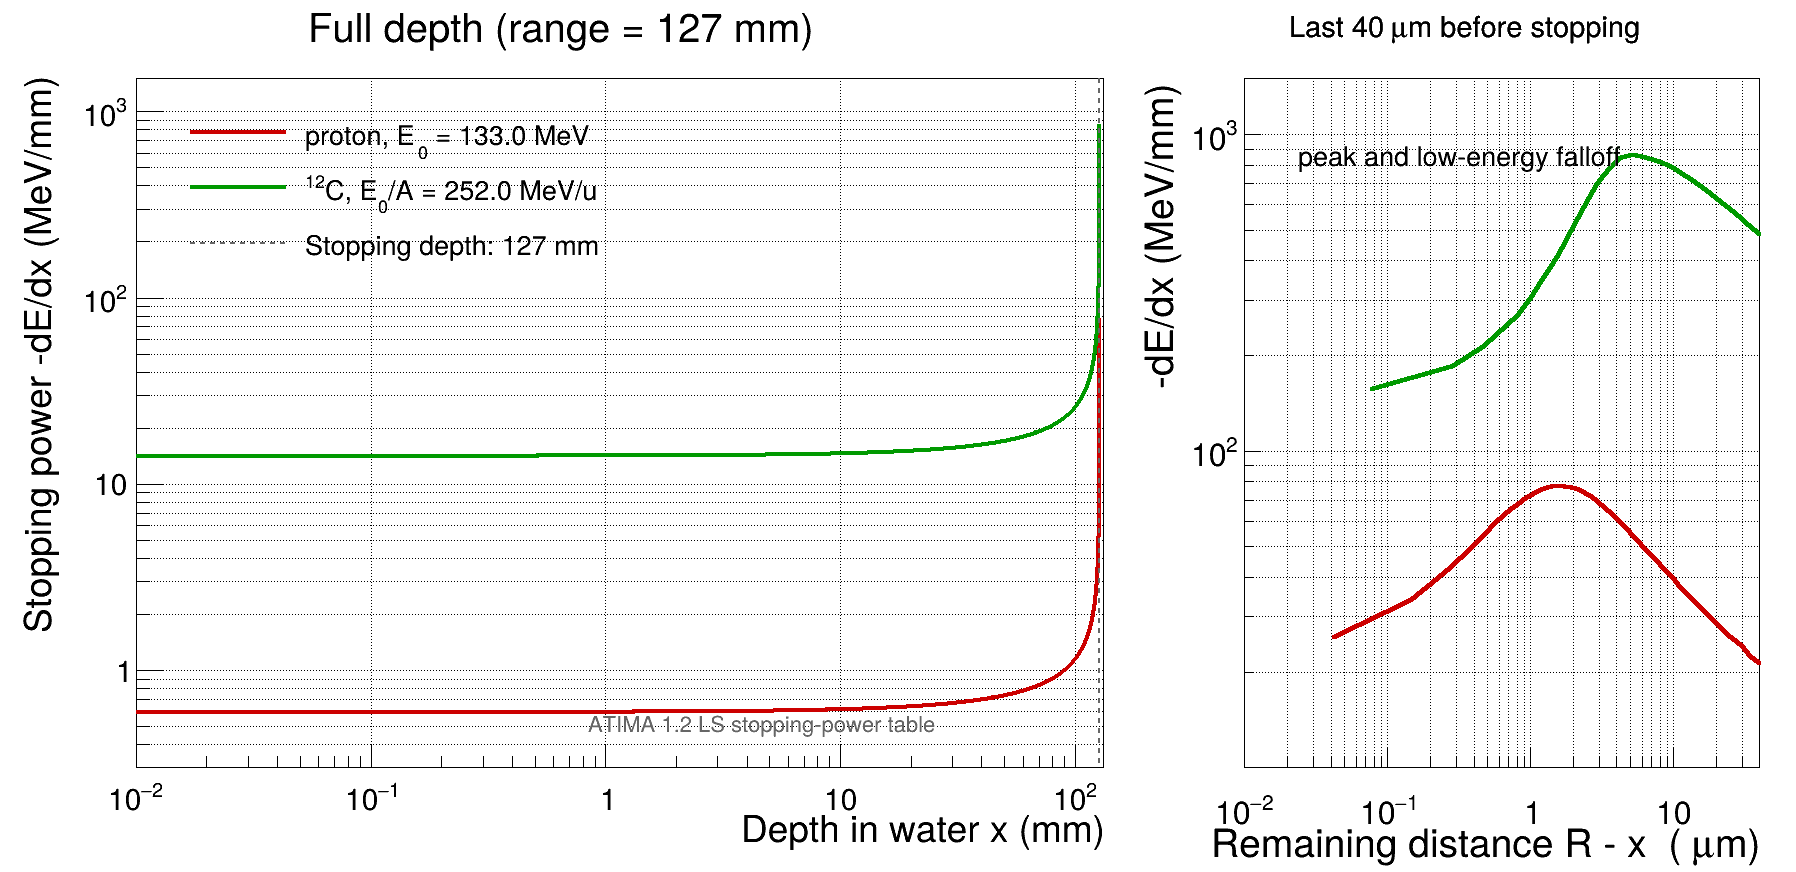
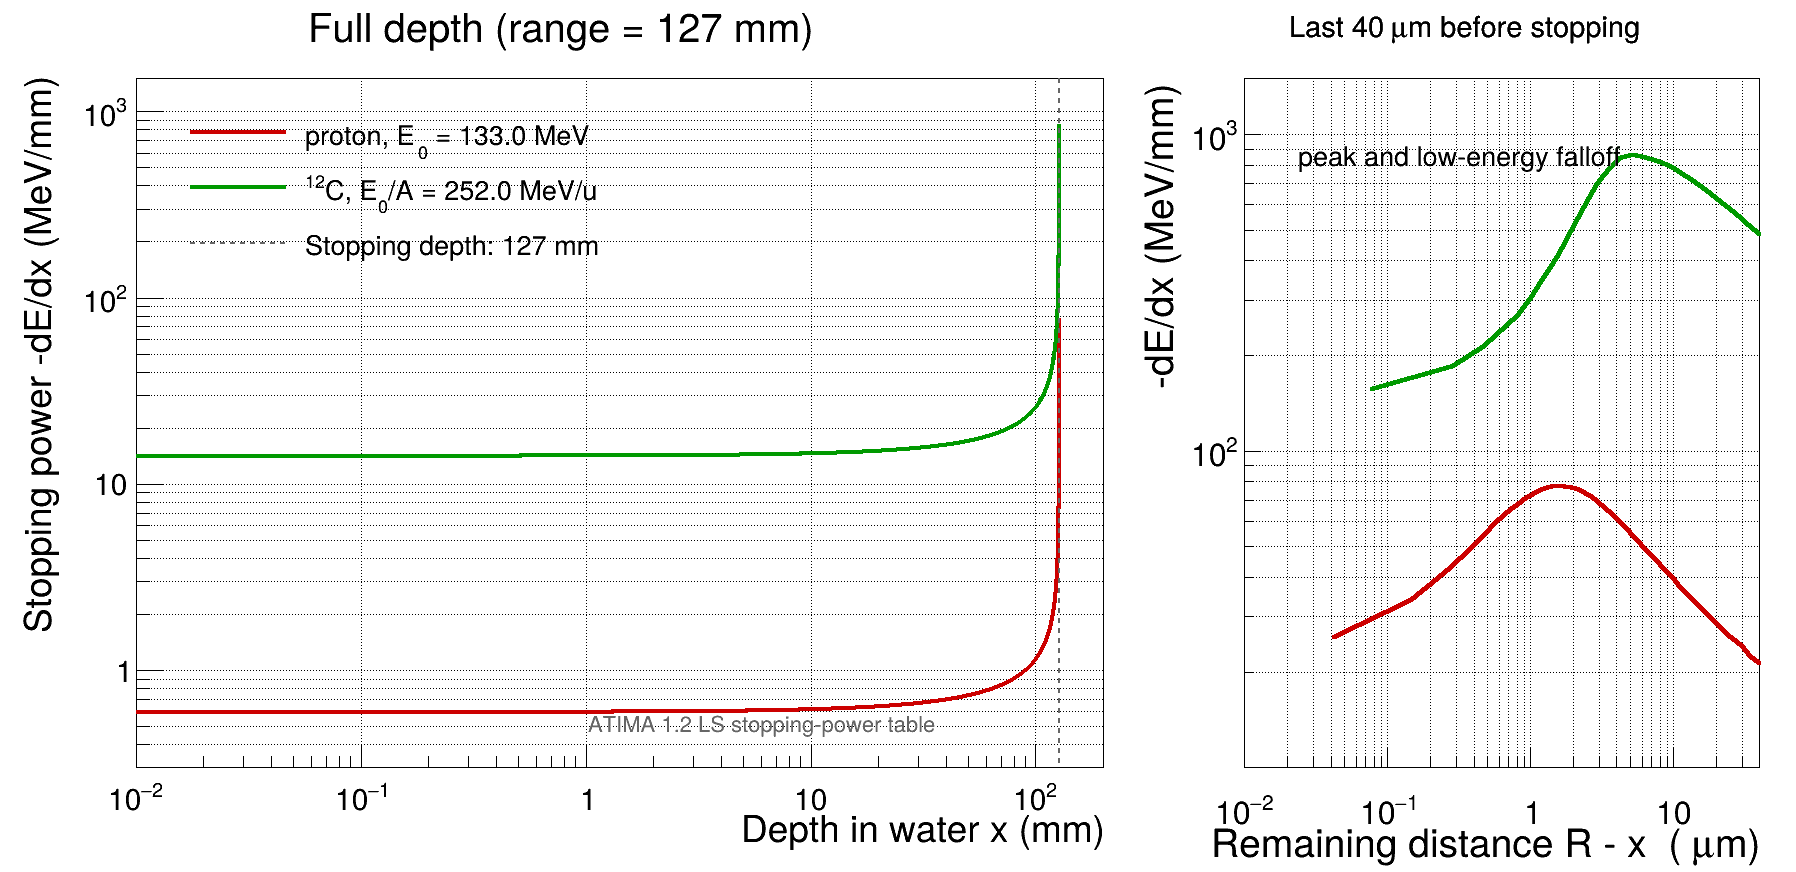
Widen Bragg plot depth range

diff --git a/chapt1/coursework1.1/1.1_bragg_curve.html b/chapt1/coursework1.1/1.1_bragg_curve.html
@@ -289,7 +289,7 @@ class="math inline">\(-dE/dx\)</span>（MeV/mm）。从第一个 <span
 class="math inline">\(x&gt;0\)</span> 的深度点开始绘图，横轴和纵轴均使用对数刻度，并用图例区分粒子。</p>
 <h3 id="参考效果">参考效果</h3>
 <p>计算正确时，两条曲线都在约 127 mm 处终止，并在射程末端附近上升至峰值；峰后的低能下降集中在停止前的几个微米内。<span
-class="math inline">\(^{12}\mathrm{C}\)</span> 的阻止本领整体高于质子。下图给出一种正常的显示效果，右图放大了停止前最后 40 μm。</p>
+class="math inline">\(^{12}\mathrm{C}\)</span> 的阻止本领整体高于质子。下图给出一种正常的显示效果，右图显示停止前最后 40 μm。</p>
 <figure>
 <img src="result.png" style="width:820px;max-width:100%;height:auto"
 alt="质子和碳十二在水中具有相同射程时的 Bragg 曲线参考图">
